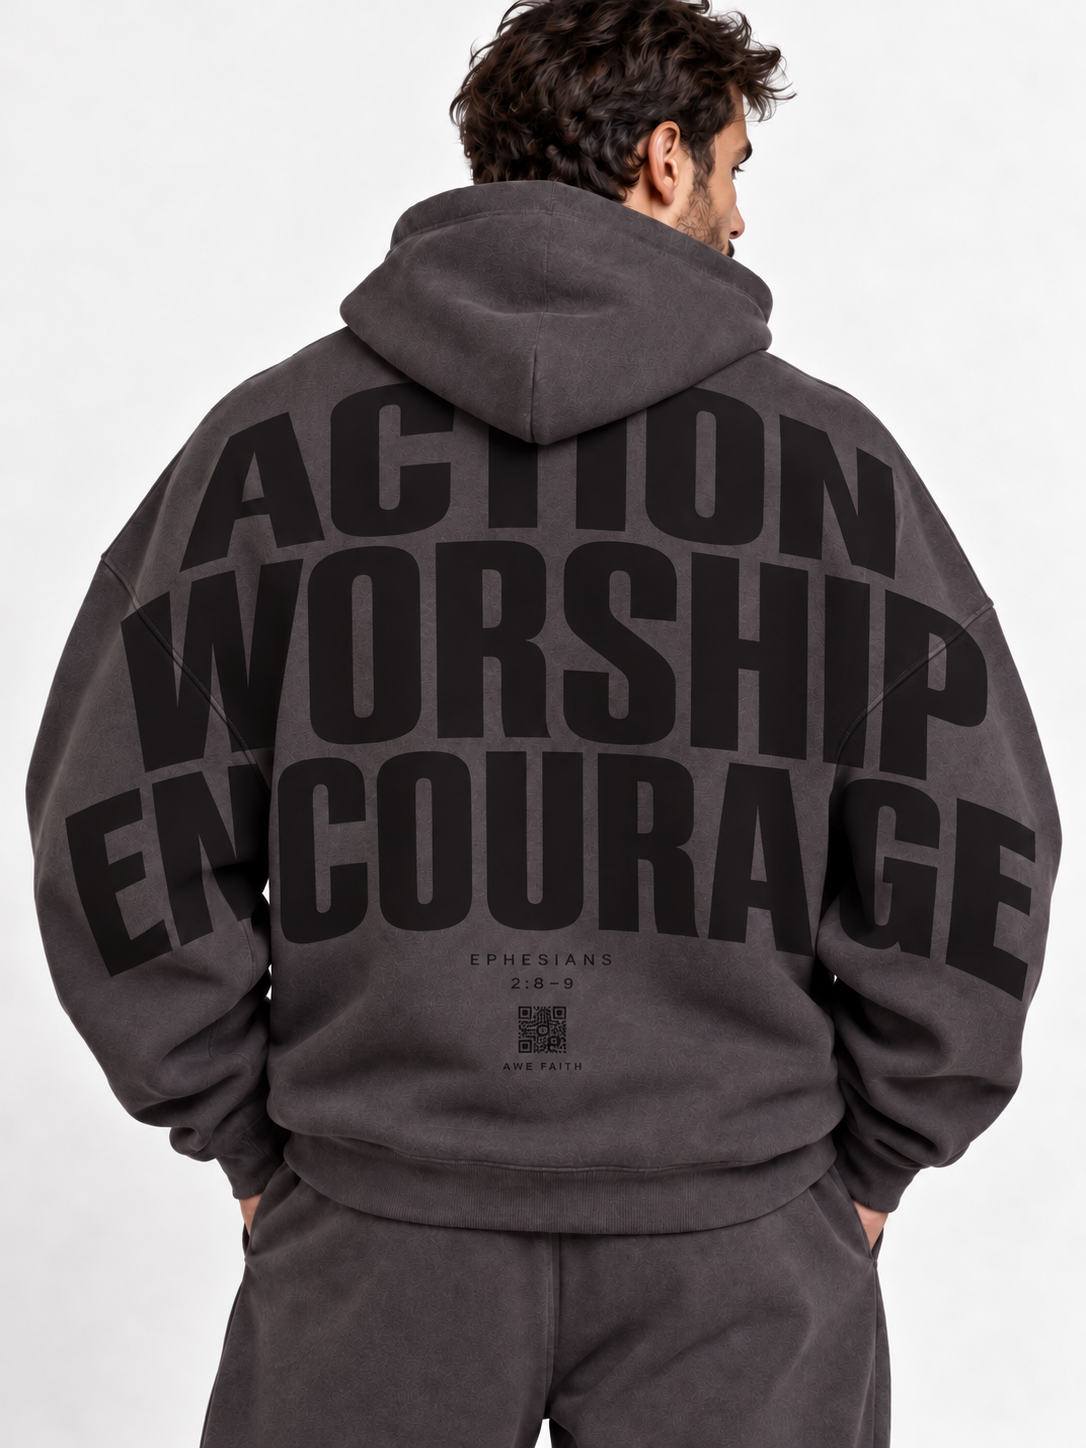
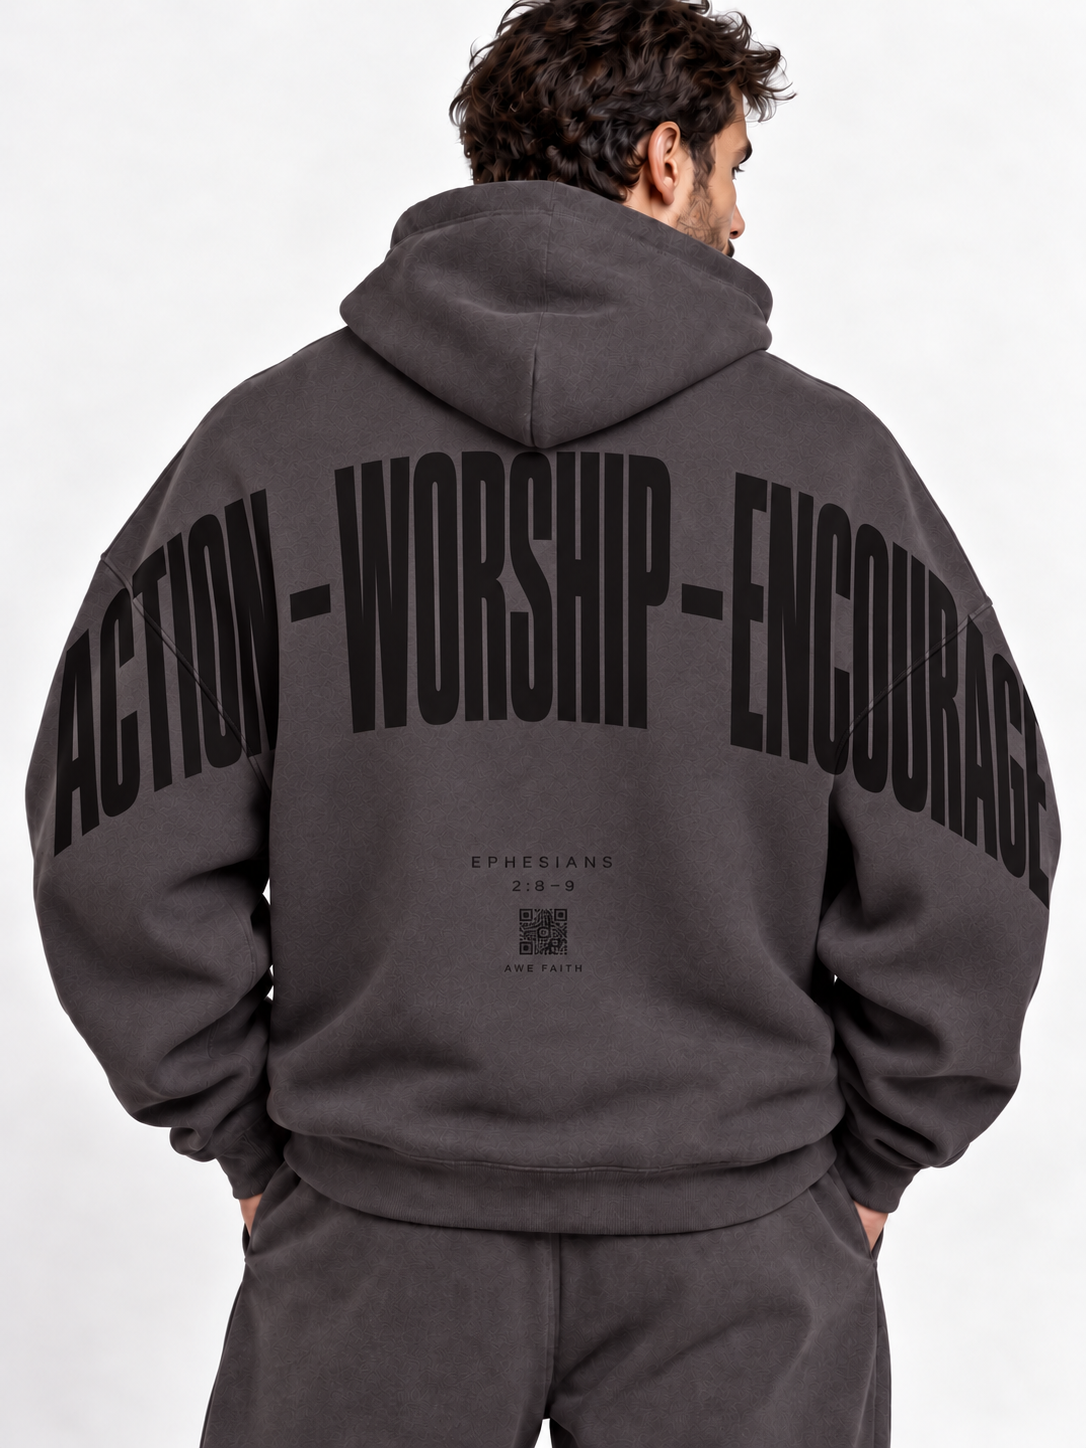
Run ACTION WORSHIP ENCOURAGE in one sleeve-to-sleeve line

Changed region(s): [[0.0304, 0.2486, 0.9724, 0.7459]]

diff --git a/tools/merch-studio/public/index.html b/tools/merch-studio/public/index.html
@@ -3,7 +3,7 @@
 <body><aside class="rail"><a class="monogram" href="/" aria-label="AweFaith home">aw<span>e</span></a><div class="rail-label">CREATE WITH PURPOSE</div><button id="connections" class="rail-button" title="Connections">⚙</button><span class="rail-bottom">AF / 01</span></aside>
 <main><header><div><span class="eyebrow">AWEFAITH / AWEMISSIONS</span><h1>Merch Studio<span class="dot">.</span></h1></div><div class="header-actions"><span class="local"><i></i> ON YOUR COMPUTER</span><button id="load" class="quiet">Open project</button><button id="save" class="outline">Save project ↗</button><input hidden id="projectFile" type="file" accept=".json"></div></header>
 <div class="intro"><div><span class="eyebrow">WEAR THE MISSION</span><h2>Small details.<br>Lasting impact.</h2><p>A space to turn your ideas into merchandise with meaning.</p></div><div class="flow"><span class="active">01 &nbsp; DESIGN</span><b>→</b><span>02 &nbsp; CONFIGURE</span><b>→</b><span>03 &nbsp; REVIEW</span><small>Local editing · No AI API calls · Shopify + Printful ready to connect</small></div></div>
-<section class="concept-review"><span class="eyebrow">CORRECTED DESIGN DIRECTION</span><h2>Oversized. Tonal. Across the shoulders.</h2><p>These concepts show the intended charcoal fit and large black lettering flowing across the back and sleeves. The verse reference and app QR sit below. The front retains your A.W.E. Missions logo.</p><div class="concept-grid"><figure><img src="/concepts/forgiven.png" alt="FORGIVEN concept with enormous black lettering across the charcoal hoodie back and sleeves"><figcaption>FORGIVEN</figcaption></figure><figure><img src="/concepts/action-worship-encourage.png" alt="ACTION WORSHIP ENCOURAGE concept in three enormous black rows across the charcoal hoodie back and sleeves"><figcaption>ACTION · WORSHIP · ENCOURAGE</figcaption></figure></div><p><strong>Printful status: NOT READY TO PRINT OR PUSH.</strong> The QR marks in these generated photos are placeholders. The separate-area editor below retains the earlier planning files; those files do not reproduce this continuous lettering. The current app handoff supports separate print placements, not all-over panel artwork. Next: prepare charcoal artwork for the All-Over Print Oversized Cotton Hoodie panels, place the real QR and front logo, then check the Printful preview and order a sample.</p><a class="outline" href="https://www.printful.com/dashboard/custom/mens/hoodies/all-over-print-oversized-cotton-hoodie" target="_blank" rel="noreferrer">Open the matching Printful all-over hoodie ↗</a></section>
+<section class="concept-review"><span class="eyebrow">CORRECTED DESIGN DIRECTION</span><h2>Oversized. Tonal. Across the shoulders.</h2><p>These concepts show the intended charcoal fit and large black lettering flowing across the back and sleeves. The verse reference and app QR sit below. The front retains your A.W.E. Missions logo.</p><div class="concept-grid"><figure><img src="/concepts/forgiven.png" alt="FORGIVEN concept with enormous black lettering across the charcoal hoodie back and sleeves"><figcaption>FORGIVEN</figcaption></figure><figure><img src="/concepts/action-worship-encourage.png" alt="ACTION WORSHIP ENCOURAGE concept in one continuous black line across the charcoal hoodie back and sleeves"><figcaption>ACTION · WORSHIP · ENCOURAGE</figcaption></figure></div><p><strong>Printful status: NOT READY TO PRINT OR PUSH.</strong> The QR marks in these generated photos are placeholders. The separate-area editor below retains the earlier planning files; those files do not reproduce this continuous lettering. The current app handoff supports separate print placements, not all-over panel artwork. Next: prepare charcoal artwork for the All-Over Print Oversized Cotton Hoodie panels, place the real QR and front logo, then check the Printful preview and order a sample.</p><a class="outline" href="https://www.printful.com/dashboard/custom/mens/hoodies/all-over-print-oversized-cotton-hoodie" target="_blank" rel="noreferrer">Open the matching Printful all-over hoodie ↗</a></section>
 <div class="workspace"><section class="panel editor"><div class="panel-title"><h3>Separate-area planning editor</h3><span class="tag">01</span></div><label>Earlier placement studies<select id="preset"><option value="forgiven">FORGIVEN — separate-area study</option><option value="action-worship-encourage">ACTION – WORSHIP – ENCOURAGE — separate-area study</option></select></label><button id="applyPreset" class="outline">Open placement study</button><p class="hint">These earlier studies use small cream lettering in separate areas. They are not production files for the corrected concepts above. Keep them only as an alternate placement study.</p><div class="tabs" role="tablist"><button class="selected" id="frontTab" role="tab" aria-selected="true">Front</button><button id="backTab" role="tab" aria-selected="false">Back</button><button id="sleeve_leftTab" role="tab" aria-selected="false">Left sleeve</button><button id="sleeve_rightTab" role="tab" aria-selected="false">Right sleeve</button></div>
 <label class="upload" for="artFile"><span class="upload-icon">↥</span><strong>Bring your artwork</strong><small>PNG, JPG or WebP · up to 20 MB</small><small>Transparent PNG works best</small><input id="artFile" type="file" accept="image/png,image/jpeg,image/webp"></label><button id="removeImage" class="text-button">Remove image from this side</button>
 <label>Artwork width <output id="scaleLabel"></output><input id="scale" type="range" min="10" max="100" value="75"></label><div class="two"><label>Horizontal<input id="x" type="range" min="0" max="100" value="50"></label><label>Vertical<input id="y" type="range" min="0" max="100" value="35"></label></div>

diff --git a/tools/merch-studio/corrected-concepts/README.md b/tools/merch-studio/corrected-concepts/README.md
@@ -19,3 +19,6 @@ FORGIVEN: Photorealistic rear-view oversized washed-charcoal hoodie, dropped sho
 ACTION – WORSHIP – ENCOURAGE: Match the corrected charcoal silhouette and black ink. Replace FORGIVEN with three enormous broad rows: ACTION, WORSHIP, ENCOURAGE, extending across the back and upper sleeves. Keep the small verse reference, QR placeholder and AWE FAITH below. Preserve the photorealistic studio presentation.
 
 Targeted correction: The middle row must read WORSHIP with exactly seven letters W O R S H I P and one initial W; remove the duplicate W and re-space across the same width. Preserve the remaining composition.
+
+Latest correction: ACTION - WORSHIP - ENCOURAGE now runs in ONE continuous line from the left sleeve across the back to the right sleeve. The three-row concept is superseded. Built-in image edit prompt: replace all stacked rows with a single sleeve-to-sleeve band, preserving the charcoal hoodie, black tall condensed lettering, verse reference and QR placeholder.
+
